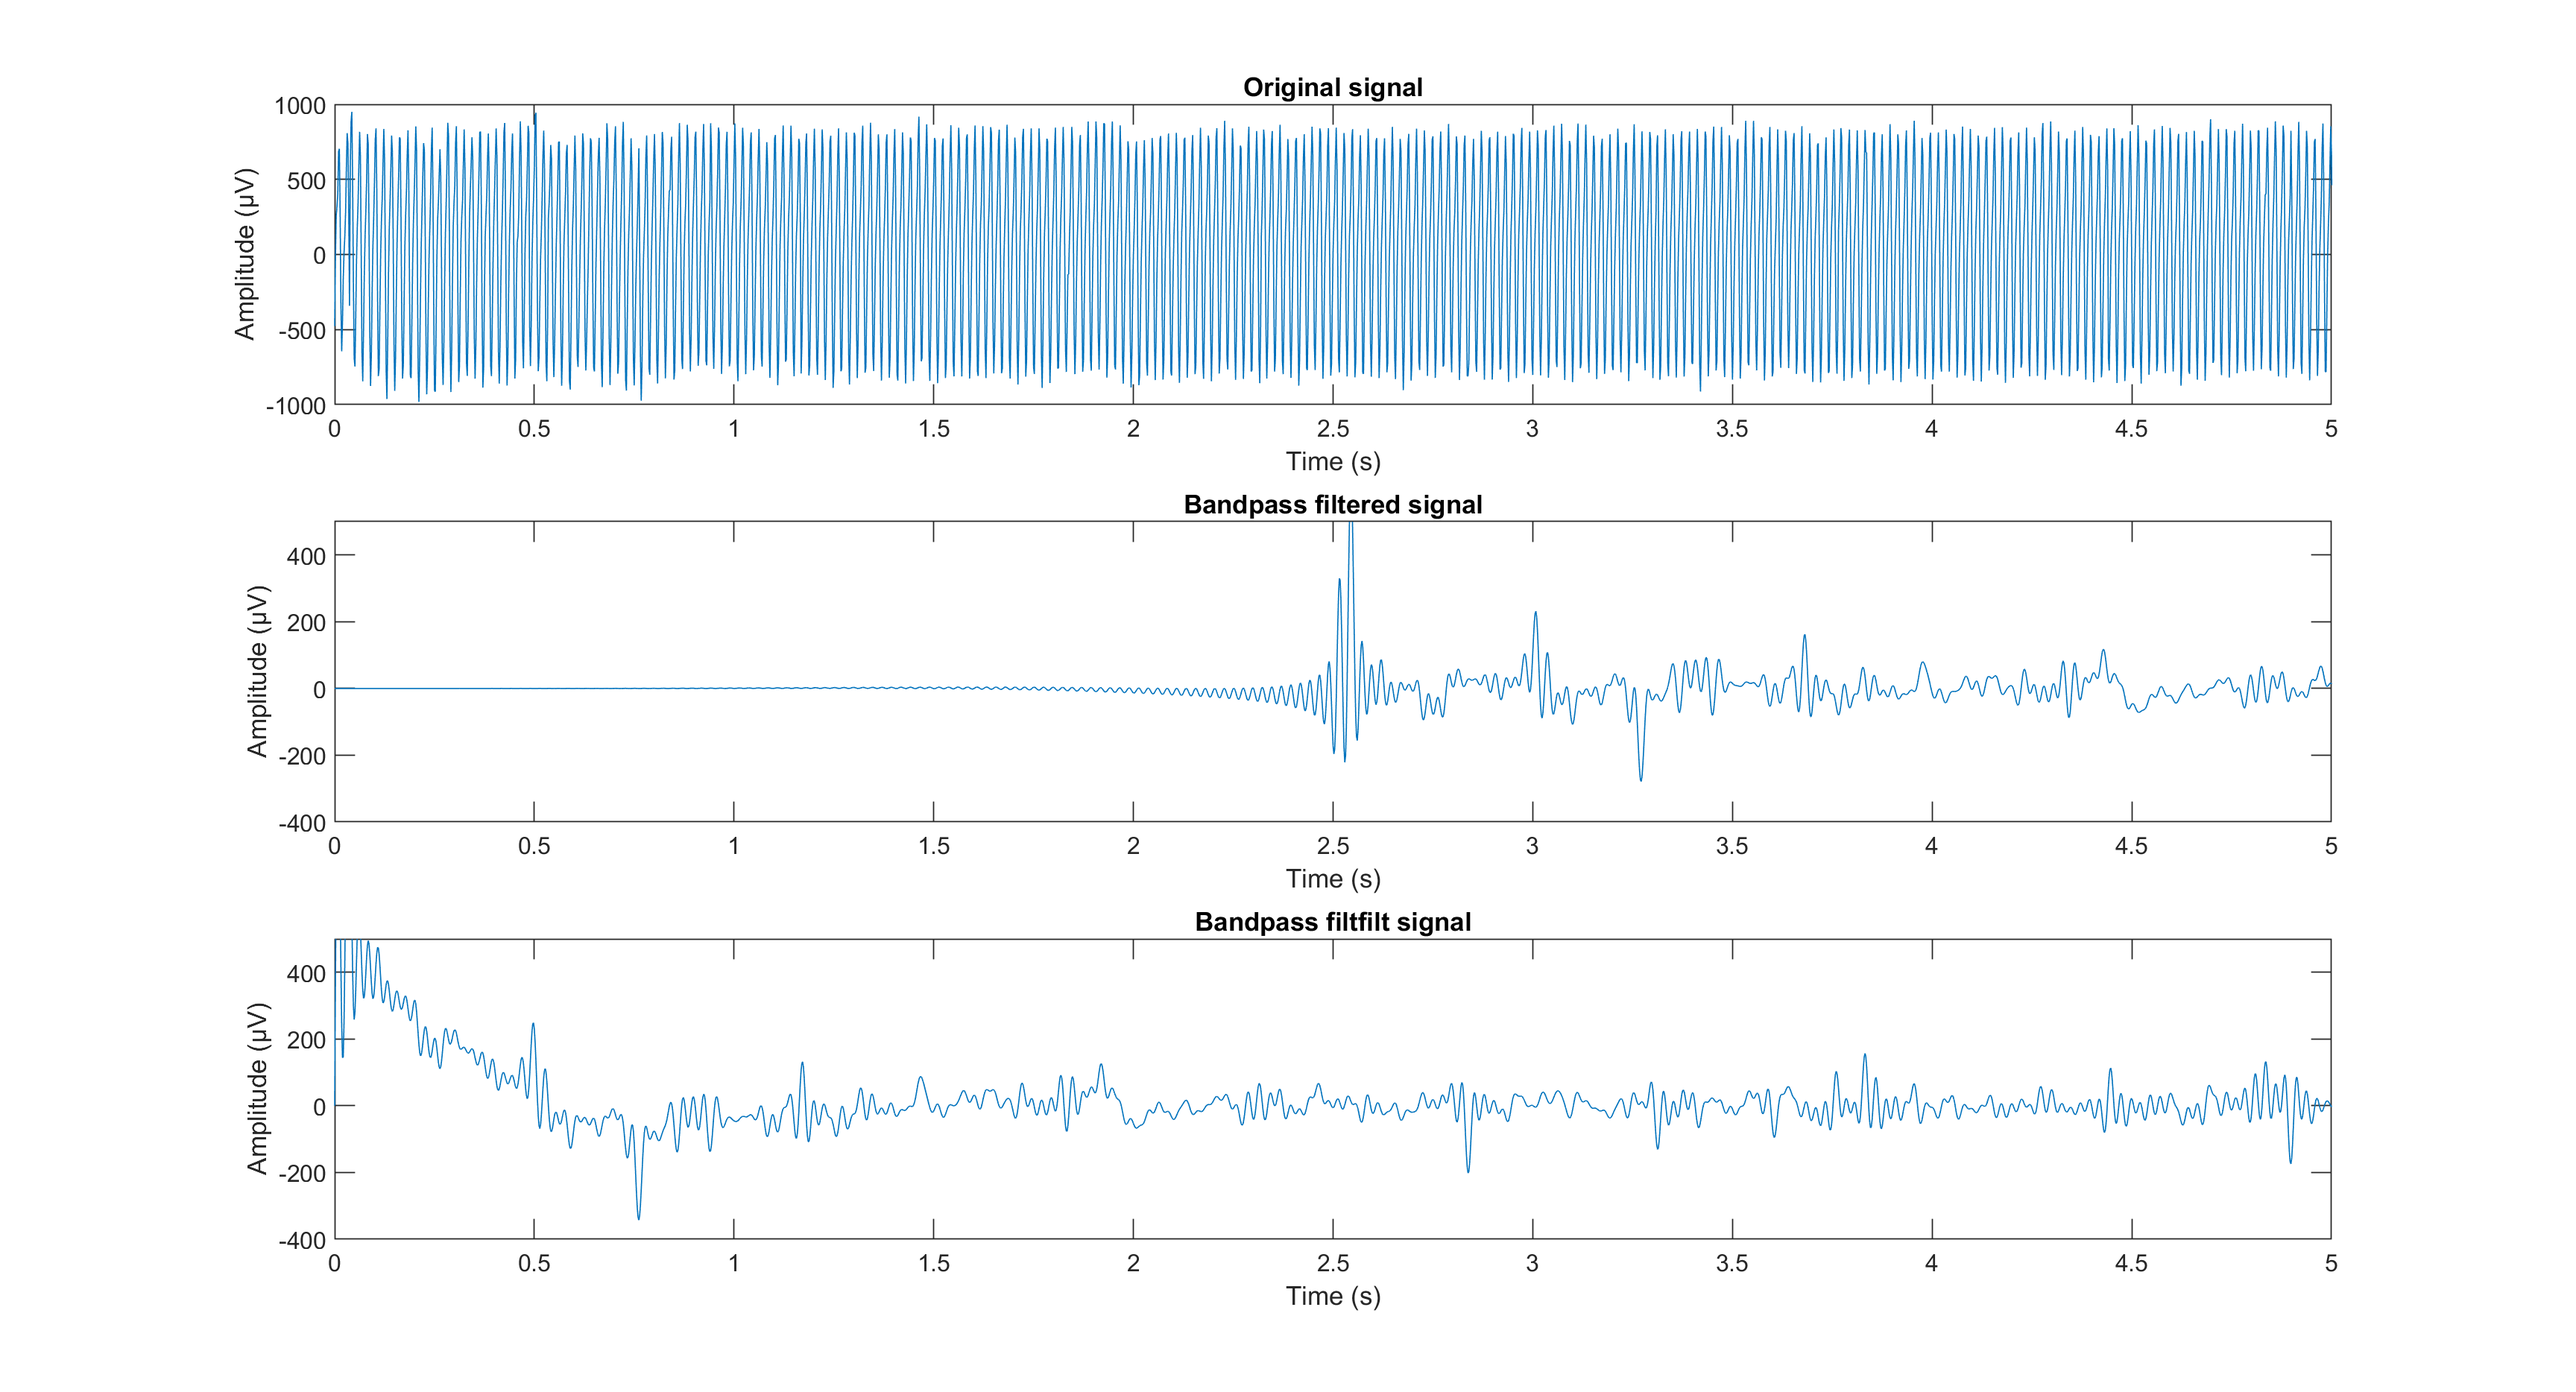
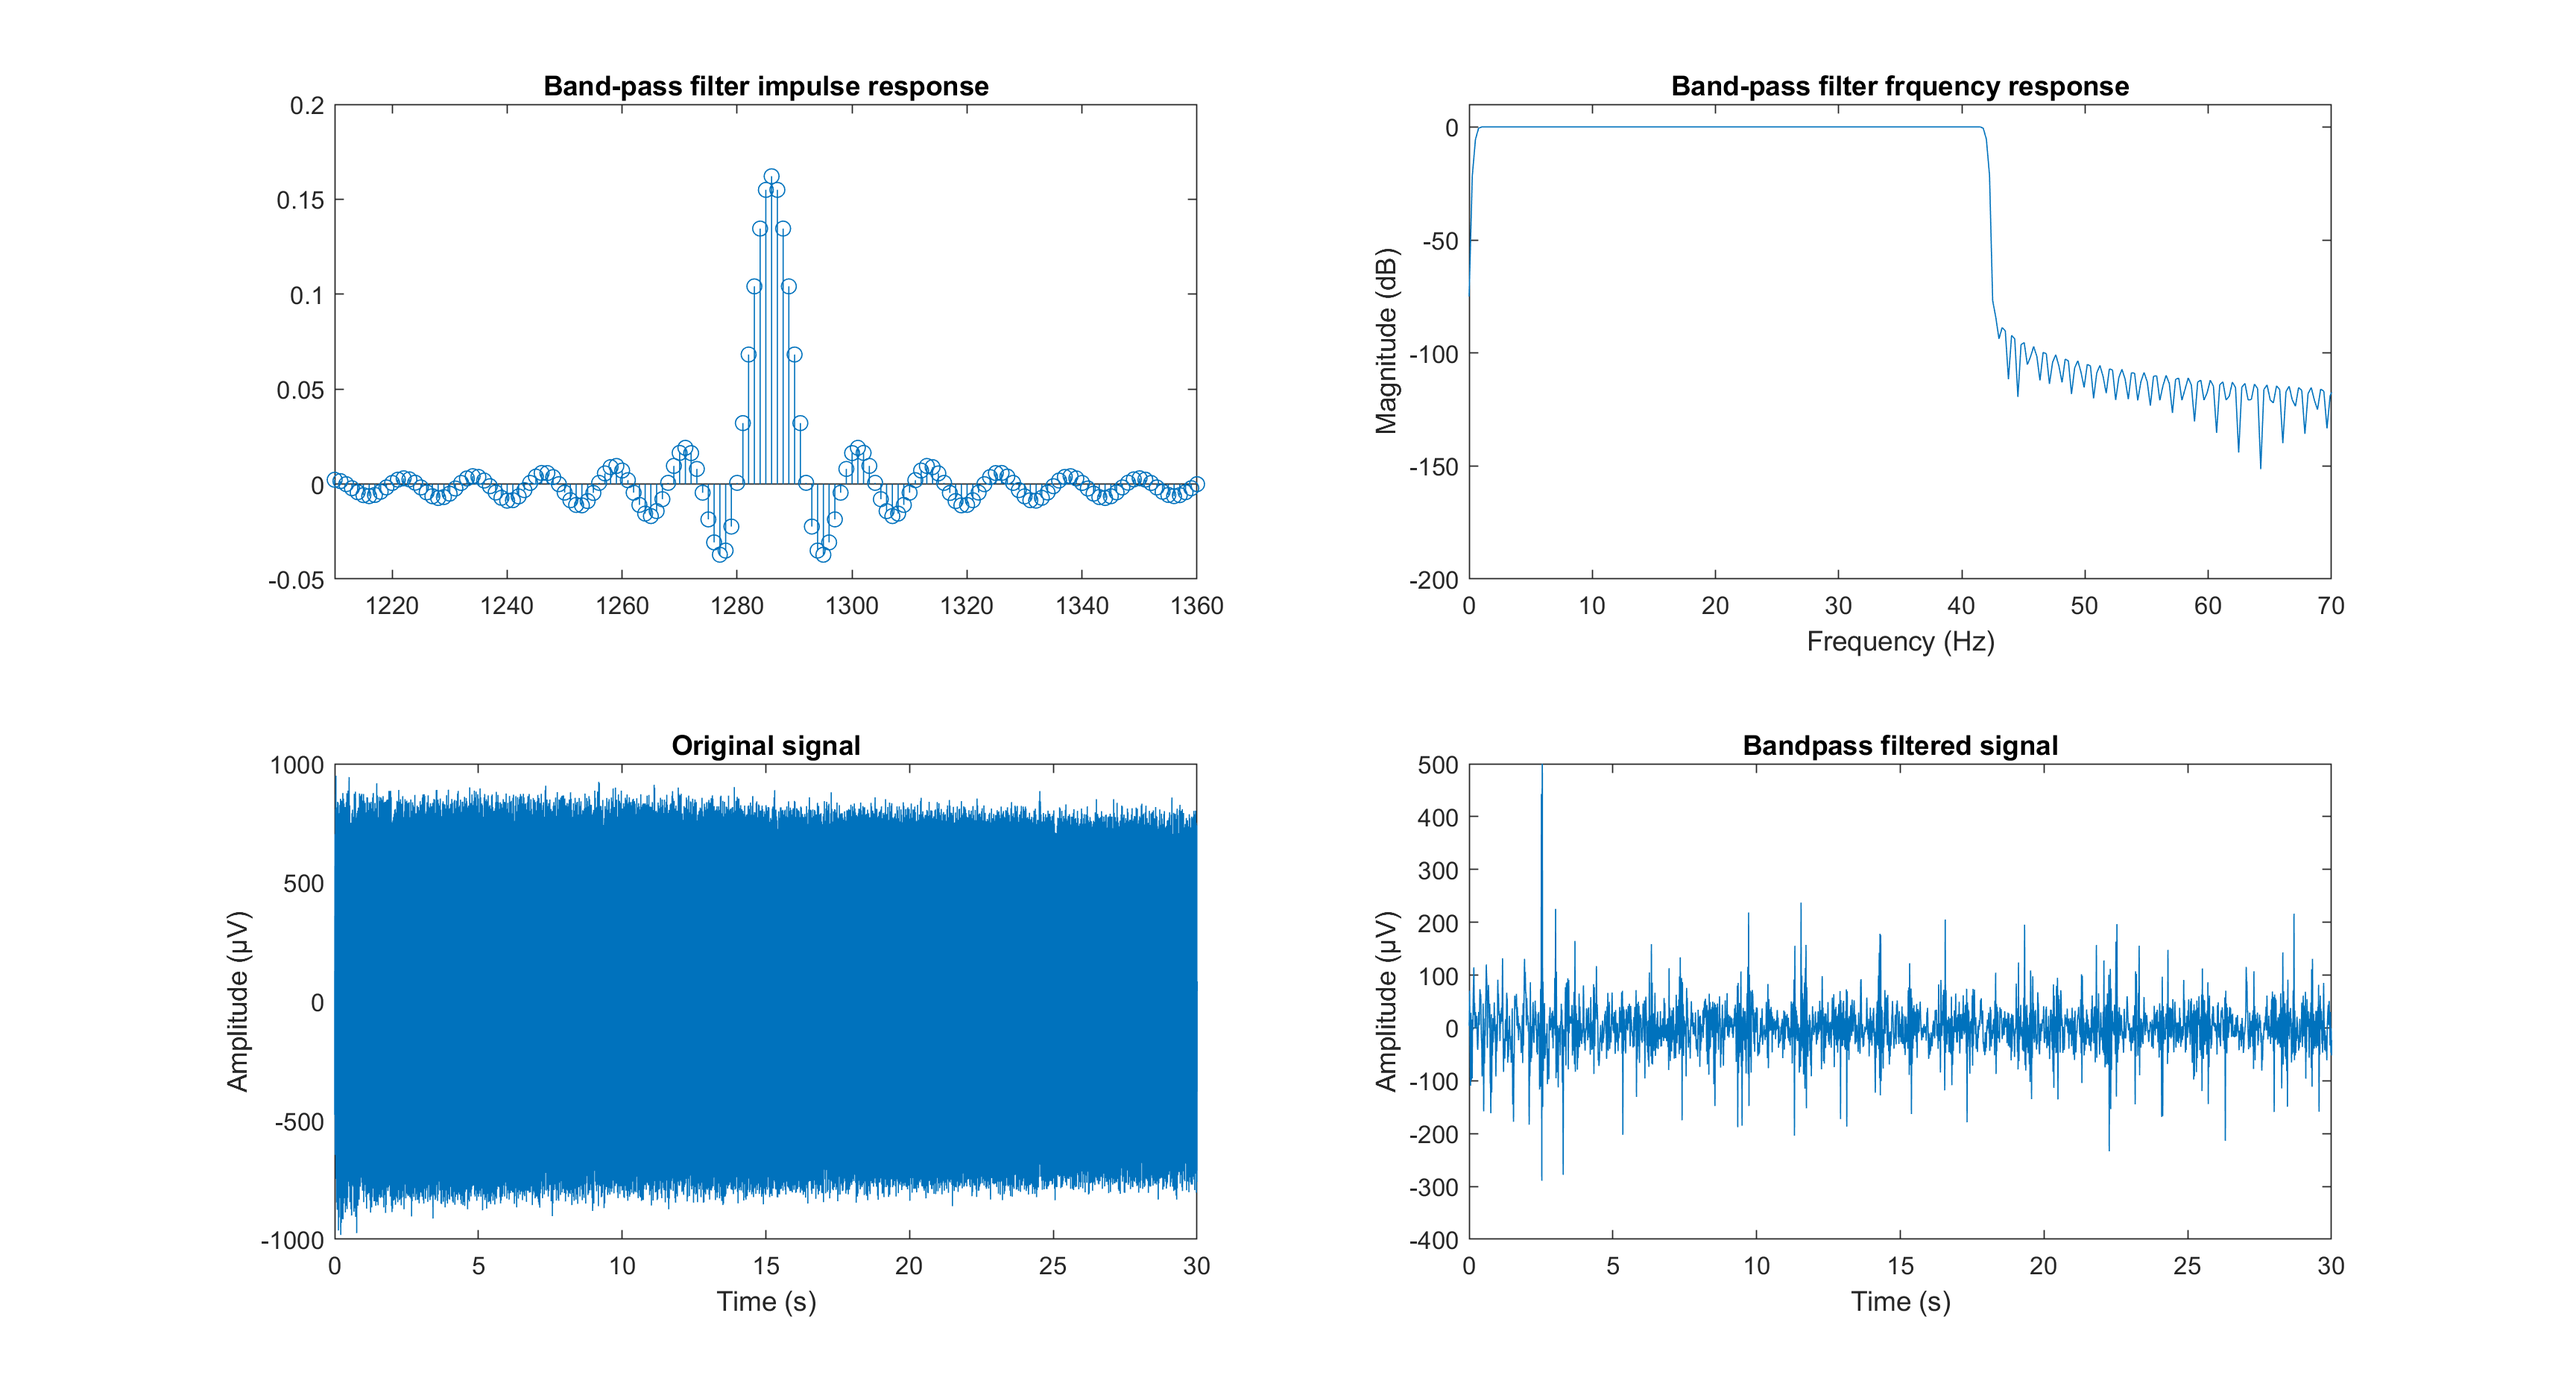
Updated filter code

diff --git a/functions/digital_filter.m b/functions/digital_filter.m
@@ -1,4 +1,4 @@
-function [total_filtered] = digital_filter(EEG_data, fc, notch_R, show_graph)
+function [total_filtered] = digital_filter(EEG_data, fc, notch_R)
 
 
     N = length(EEG_data);
@@ -19,29 +19,50 @@ function [total_filtered] = digital_filter(EEG_data, fc, notch_R, show_graph)
     delta = 10^(-A_stop / 20);
     [n, Wn, beta, filtype] = kaiserord([F1 F2 F3 F4], [0 1 0], [delta delta delta], fc);
     fir_filter = fir1(n, Wn, filtype, kaiser(n+1, beta));
-    bandpass_filtfilt_eeg = filtfilt(fir_filter, 1, EEG_data);
-    bandpass_filtered_eeg = filter(fir_filter, 1, EEG_data);
 
+    % FIR filter with linear convolution
+    M = length(EEG_data);
+    L = length(fir_filter);
+    EEG_data_padded = [EEG_data(end-L+1:end), EEG_data];
+    bandpass_filtered_padded_eeg = conv(EEG_data_padded, fir_filter);
+    bandpass_filtered_eeg = bandpass_filtered_padded_eeg(L+1:L+M);
 
+    % Corresponding FIR filter with circular convolution & FFT
+    filter_padded = [fir_filter zeros(1, M - length(fir_filter))];
+    bandpass_filtered_eeg = ifft(fft(filter_padded).*fft(EEG_data));
+    Nfft = 1000;
+    [freq_resp_fir, freq_fir] = freqz(fir_filter, 1, Nfft, fc);
 
 
 
     % *************************************************************************
     % ****************************** Notch filter *****************************
     % *************************************************************************
-    if ne(notch_R,  0)
-        f0 = 50;
-        w0 = (2 * pi * f0) / fc;
-        r = 1;
-        R = notch_R;
-        a1 = -2 * R * cos(w0);
-        a2 = R^2;
-        b1 = -2 * r * cos(w0);
-        b2 = r^2;
-        a_notch = [1 a1 a2];
-        b_notch = [1 b1 b2];
-        notch_filtered_eeg = filter(b_notch, a_notch, EEG_data);
-    end
+    f0 = 50;
+    w0 = (2 * pi * f0) / fc;
+    r = 1;
+    R = notch_R;
+    a1 = -2 * R * cos(w0);
+    a2 = R^2;
+    b1 = -2 * r * cos(w0);
+    b2 = r^2;
+    a_notch = [1 a1 a2];
+    b_notch = [1 b1 b2];
+
+    % Notch-filtered signal
+    notch_filtered_eeg = filter(b_notch, a_notch, EEG_data);
+
+    % Frequency response for plot
+    Nfft = 1000;
+    [freq_resp_notch, freq_notch] = freqz(b_notch, a_notch, Nfft, fc);
+
+    % Poles and zeros for plot
+    zeri = zeros(2, 1);
+    zeri(1) = r * cos(w0) + 1i * r * sin(w0);
+    zeri(2) = r * cos(w0) - 1i * r * sin(w0);
+    poles = zeros(2, 1);
+    poles(1) = R * cos(w0) + 1i * R * sin(w0);
+    poles(2) = R * cos(w0) - 1i * R * sin(w0);
 
 
 
@@ -50,19 +71,12 @@ function [total_filtered] = digital_filter(EEG_data, fc, notch_R, show_graph)
     % *************************************************************************
     % ************************ Bandpass + notch filter ************************
     % *************************************************************************
-    if ne(notch_R, 0)
-        total_filtered = filter(b_notch, a_notch, bandpass_filtfilt_eeg);
-    else
-        total_filtered = bandpass_filtfilt_eeg;
-    end
+    total_filtered = filter(b_notch, a_notch, bandpass_filtered_eeg);
     
 
 
 
 
-    if show_graph == 0
-        return
-    end
     % *************************************************************************
     % ***************************** Signal graphs *****************************
     % *************************************************************************
@@ -72,19 +86,20 @@ function [total_filtered] = digital_filter(EEG_data, fc, notch_R, show_graph)
     title('Initial signal');
     xlabel('Time (s)');
     ylabel('Amplitude (µV)');
+
     subplot(2, 2, 2);
-    plot(time, bandpass_filtfilt_eeg);
+    plot(time, bandpass_filtered_eeg);
     title('Bandpass filtered signal');
     xlabel('Time (s)');
     ylabel('Amplitude (µV)');
     ylim([-300 300]);
-    if ne(notch_R,  0)
-        subplot(2, 2, 3);
-        plot(time, notch_filtered_eeg);
-        title('Notch filtered signal');
-        xlabel('Time (s)');
-        ylabel('Amplitude (µV)');
-    end
+
+    subplot(2, 2, 3);
+    plot(time, notch_filtered_eeg);
+    title('Notch filtered signal');
+    xlabel('Time (s)');
+    ylabel('Amplitude (µV)');
+
     subplot(2, 2, 4);
     plot(time, total_filtered);
     title('Bandpass + notch signal');
@@ -97,29 +112,74 @@ function [total_filtered] = digital_filter(EEG_data, fc, notch_R, show_graph)
 
 
     % *************************************************************************
-    % *********************** Filtfilt & filt difference **********************
+    % ************************* FIR impulse & frequence ***********************
     % *************************************************************************
     figure;
-    subplot(3, 1, 1);
+    subplot(2, 2, 1);
+    stem(fir_filter);
+    title('Band-pass filter impulse response');
+    xlim([1210 1360]);
+
+    subplot(2, 2, 2);
+    plot(freq_fir, 20*log10(abs(freq_resp_fir)));
+    title('Band-pass filter frquency response');
+    xlabel('Frequency (Hz)');
+    ylabel('Magnitude (dB)');
+    xlim([0 70]);
+    ylim([-200 10]);
+
+    subplot(2, 2, 3);
     plot(time, EEG_data);
     title('Original signal');
     xlabel('Time (s)');
     ylabel('Amplitude (µV)');
-    xlim([0 5]);
+    xlim([0 30]);
     ylim([-1000 1000]);
-    subplot(3, 1, 2);
+
+    subplot(2, 2, 4);
     plot(time, bandpass_filtered_eeg);
     title('Bandpass filtered signal');
     xlabel('Time (s)');
     ylabel('Amplitude (µV)');
-    xlim([0 5]);
+    xlim([0 30]);
     ylim([-400 500]);
-    subplot(3, 1, 3);
-    plot(time, bandpass_filtfilt_eeg);
-    title('Bandpass filtfilt signal');
+
+
+
+
+
+    % *************************************************************************
+    % ************************* IIR impulse & frequence ***********************
+    % *************************************************************************
+    figure;
+    subplot(2, 2, 1);
+    hold on
+    angles = -pi : 2*pi/2048 : pi;
+    plot(cos(angles), sin(angles))
+    axis([-1.3, 1.3, -1.3, 1.3]);
+    plot(poles, 'o');
+    plot(zeri, '*');
+    title('Poles-zeros pattern');
+    hold off
+
+    subplot(2, 2, 2);
+    plot(freq_notch, 20*log10(abs(freq_resp_notch)));
+    title('Notch filter magnitude frquency response');
+    xlabel('Frequency (Hz)');
+    ylabel('Magnitude (dB)');
+
+    subplot(2, 2, 3);
+    plot(freq_notch, unwrap(angle(freq_resp_notch)));
+    title('Notch filter phase frquency response');
+    xlabel('Frequency (Hz)');
+    ylabel('Phase (degrees)');
+
+    subplot(2, 2, 4);
+    plot(time, notch_filtered_eeg);
+    title('Notch filtered signal');
     xlabel('Time (s)');
     ylabel('Amplitude (µV)');
-    xlim([0 5]);
+    xlim([0 30]);
     ylim([-400 500]);
 
 
@@ -129,24 +189,23 @@ function [total_filtered] = digital_filter(EEG_data, fc, notch_R, show_graph)
     % ****************************** Group delay ******************************
     % *************************************************************************
     figure;
-    [gd_bandpass, gd_window_bandpass] = grpdelay(fir_filter, 1, 512, fc);
+    [gd_bandpass, gd_window_bandpass] = grpdelay(fir_filter, 1, [], fc);
     subplot(2, 1, 1);
     time_gd_bandpass = gd_bandpass / fc;
     plot(gd_window_bandpass, time_gd_bandpass);
     xlabel('Frequency (Hz)');
-    ylabel('Group delay (seconds)');
+    ylabel('Group delay (samples)');
     title('Group delay - Kaiser FIR windows');
     grid on;
-    if ne(notch_R,  0)
-        subplot(2, 1, 2);
-        [gd_notch, gd_window_notch] = grpdelay(b_notch, a_notch, 512, fc);
-        time_gd_notch = gd_notch / fc;
-        plot(gd_window_notch, time_gd_notch);
-        xlabel('Frequency (Hz)');
-        ylabel('Group delay (seconds)');
-        title('Group delay - notch filter');
-        grid on;
-    end
+
+    subplot(2, 1, 2);
+    [gd_notch, gd_window_notch] = grpdelay(b_notch, a_notch, [], fc);
+    time_gd_notch = gd_notch / fc;
+    plot(gd_window_notch, time_gd_notch);
+    xlabel('Frequency (Hz)');
+    ylabel('Group delay (samples)');
+    title('Group delay - notch filter');
+    grid on;
 
 
 
@@ -161,13 +220,11 @@ function [total_filtered] = digital_filter(EEG_data, fc, notch_R, show_graph)
     pdf_estim(EEG_data', Nint, 1);
     title('Probability density with artifact');
     subplot(2, 2, 2);
-    pdf_estim(bandpass_filtfilt_eeg', Nint, 1);
+    pdf_estim(bandpass_filtered_eeg', Nint, 1);
     title('Probability density - bandpass filter');
-    if ne(notch_R,  0)
-        subplot(2, 2, 3);
-        pdf_estim(notch_filtered_eeg', Nint, 1);
-        title('Probability density - notch filter');
-    end
+    subplot(2, 2, 3);
+    pdf_estim(notch_filtered_eeg', Nint, 1);
+    title('Probability density - notch filter');
     subplot(2, 2, 4);
     pdf_estim(total_filtered', Nint, 1);
     title('Probability density - bandpass + notch filter');
@@ -188,20 +245,21 @@ function [total_filtered] = digital_filter(EEG_data, fc, notch_R, show_graph)
     title('Spectrogram with artifact');
     xlabel('Frequency');
     ylabel('Magnitudine');
+
     subplot(2, 2, 2);
-    [S, F, ~] = spectrogram(bandpass_filtfilt_eeg, n_cb, 0, n_fft, fc);
+    [S, F, ~] = spectrogram(bandpass_filtered_eeg, n_cb, 0, n_fft, fc);
     plot(F, 20*log10(mean(abs(S'))), 'r');
     title('Filtered spectrogram - bandpass');
     xlabel('Frequency');
     ylabel('Magnitudine');
-    if ne(notch_R,  0)
-        subplot(2, 2, 3);
-        [S, F, ~] = spectrogram(notch_filtered_eeg, n_cb, 0, n_fft, fc);
-        plot(F, 20*log10(mean(abs(S'))), 'r');
-        title('Filtered spectrogram - notch filter');
-        xlabel('Frequency');
-        ylabel('Magnitudine');
-    end
+
+    subplot(2, 2, 3);
+    [S, F, ~] = spectrogram(notch_filtered_eeg, n_cb, 0, n_fft, fc);
+    plot(F, 20*log10(mean(abs(S'))), 'r');
+    title('Filtered spectrogram - notch filter');
+    xlabel('Frequency');
+    ylabel('Magnitudine');
+
     subplot(2, 2, 4);
     [S, F, ~] = spectrogram(total_filtered, n_cb, 0, n_fft, fc);
     plot(F, 20*log10(mean(abs(S'))), 'r');

diff --git a/eeg_project.m b/eeg_project.m
@@ -13,7 +13,7 @@ addpath("functions\")
 EEG_dataset_test_1 = readmatrix("eeg_dataset\filter\subj_1.csv");
 fs = 512;
 notch_R = 0.60;
-digital_filter(EEG_dataset_test_1', fs, notch_R, 1);
+digital_filter(EEG_dataset_test_1', fs, notch_R);
 pause
 
 
